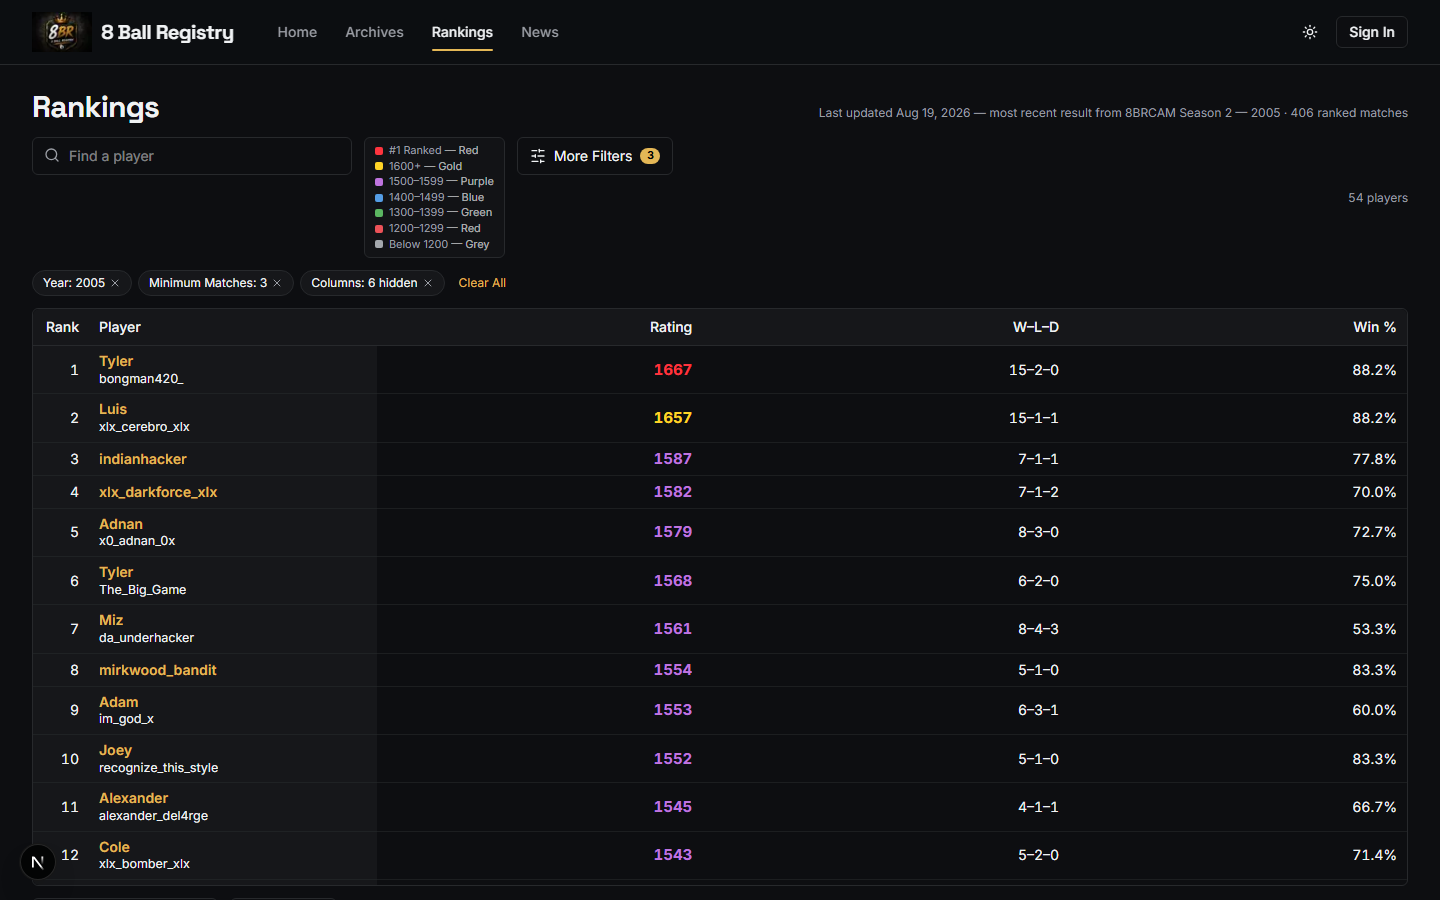
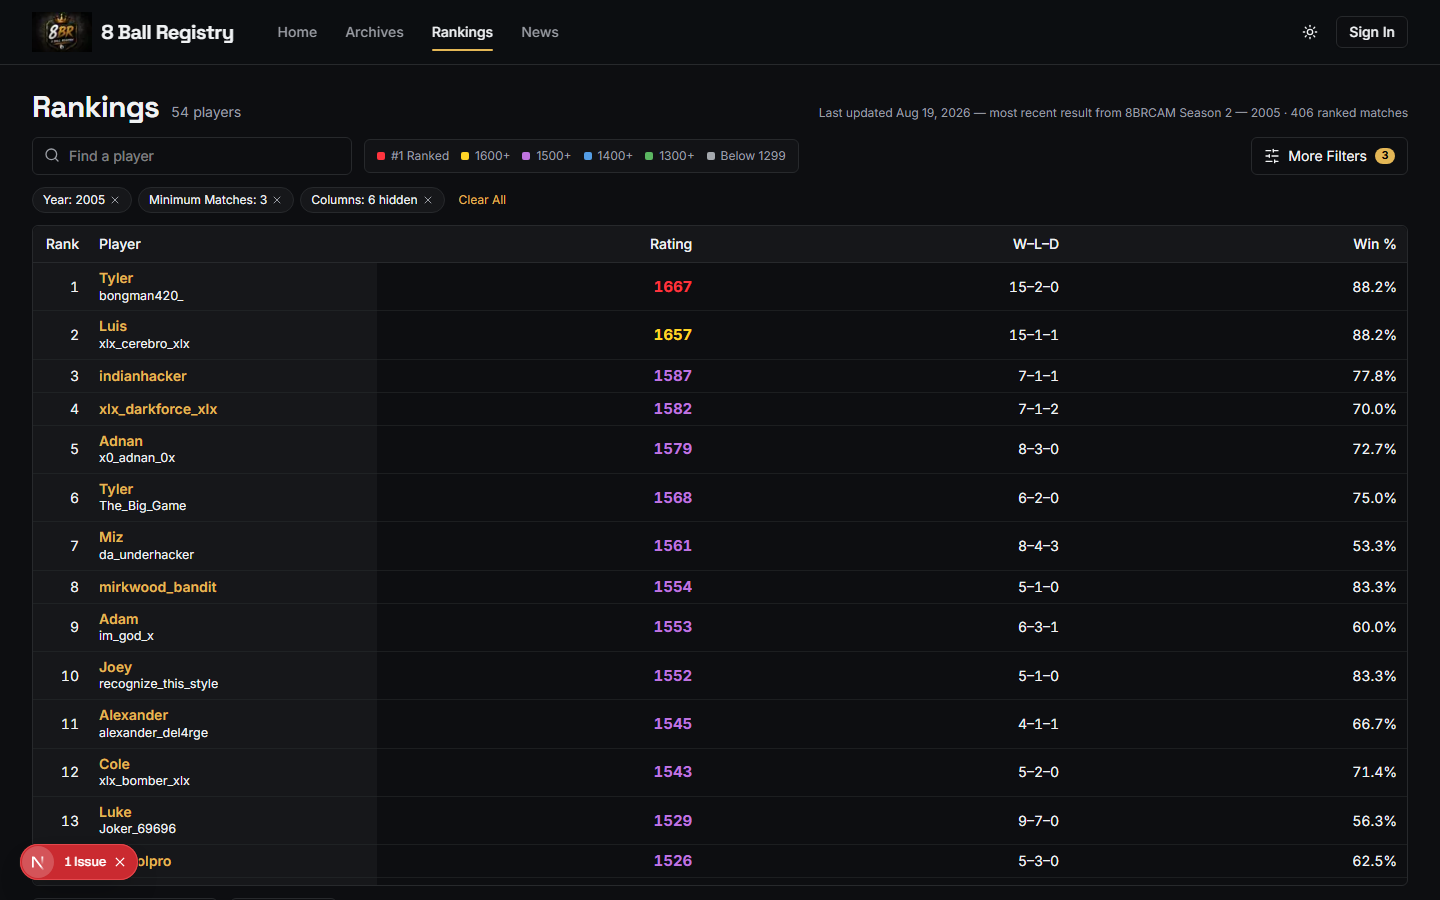
Rankings: grey floor at 1299, inline legend, and rank always follows rating
── Bands
Red is no longer a band. It belongs to first place alone, and a band
wearing the same colour made the single row the colour exists to point at
look like the bottom of the table. Grey now covers everything below 1300,
so the scale is gold, purple, blue, green and then a floor.

── Legend
One horizontal strip beside the search box, matching the agreed layout:
swatch plus threshold, no colour words. Writing "Gold" beside a gold
square tells a sighted reader what they can already see, and six such
words turned the strip into a paragraph. The names are still carried for
assistive technology, so colour is never the only signal.

The player count moves up beside the title, where "Rankings · 60 players"
reads as one statement instead of a number floating at the end of a
control row.

── Rank always follows rating
A player the official ladder does not rank used to be appended after
everyone else, which produced ranks that contradicted the ratings printed
next to them: 1490 sitting at #61, below 1395. Rating decides rank, and a
number saying otherwise is not graceful degradation — it is a wrong
answer delivered with the confidence of a right one.

Official ranks are now used only when the ladder ranks EVERY row.
Otherwise the whole table is ranked by rating. A missing row means the
ladder and the table disagree about identity — in practice a player who
exists twice, once from the archive and once from a newly provisioned
[…]

diff --git a/src/components/rankings/rating-legend.tsx b/src/components/rankings/rating-legend.tsx
@@ -4,40 +4,47 @@ import { RATING_BANDS } from '@/lib/stats/rating-tier'
  * What the Rating colours mean, said out loud.
  *
  * Permanently visible, never behind a hover, a tooltip or an information icon. The colours encode
- * six bands and a first-place override; a reader who has to discover that by pointing at things is
- * a reader who never learns it, and one on a touch screen cannot hover at all.
+ * four bands, a floor and a first-place override; a reader who has to discover that by pointing at
+ * things never learns it, and one on a touch screen cannot point at all.
  *
- * It sits where the Competition filter used to, so removing that control did not simply leave a
- * hole in the toolbar.
+ * Laid out as a single horizontal strip beside the search box, where the Competition filter used to
+ * sit — so removing that control did not leave a hole, and the table still starts near the top of
+ * the page. It wraps to a second line rather than scrolling, because a legend you have to scroll is
+ * a legend you have to interact with.
  *
- * The swatches use the real tier tokens, so the legend cannot drift from the table — if a band's
- * colour changes, this changes with it. They are small squares rather than sample numbers: seven
- * bold neon figures in a corner would compete with the column they are explaining.
- *
- * Colour is never the only carrier. Every row states its threshold in text, so the legend reads
- * correctly in monochrome, to a screen reader, and to anyone who cannot distinguish the two blues.
+ * The swatches read the real tier tokens, so this cannot drift from the table: if a band's colour
+ * changes, the legend changes with it. Colour is never the only carrier — every entry states its
+ * threshold, and names its colour to a screen reader without printing a word the swatch already
+ * says — so it survives monochrome, assistive technology, and anyone who cannot separate the two
+ * blues.
  */
 export function RatingLegend({ className = '' }: { className?: string }) {
   return (
     <div
-      className={`rounded-md border border-border bg-card/60 px-2.5 py-1.5 ${className}`}
+      className={`flex flex-wrap items-center gap-x-3 gap-y-1 rounded-md border border-border bg-card/60 px-3 py-2 ${className}`}
       role="group"
       aria-label="What the rating colours mean"
     >
-      <ul className="grid grid-cols-2 gap-x-3 gap-y-0.5 sm:grid-cols-1">
-        {RATING_BANDS.map((b) => (
-          <li key={b.id} className="flex items-center gap-1.5 whitespace-nowrap text-[0.68rem] leading-tight">
-            <span
-              aria-hidden
-              className="inline-block size-2 shrink-0 rounded-[2px]"
-              style={{ backgroundColor: `var(${b.token})` }}
-            />
-            <span className="text-muted-foreground">
-              {b.label} <span className="text-foreground/70">— {b.colourName}</span>
-            </span>
-          </li>
-        ))}
-      </ul>
+      {RATING_BANDS.map((b) => (
+        <span key={b.id} className="inline-flex items-center gap-1.5 whitespace-nowrap text-xs">
+          <span
+            aria-hidden
+            className="inline-block size-2 shrink-0 rounded-[2px]"
+            style={{ backgroundColor: `var(${b.token})` }}
+          />
+          <span className="text-muted-foreground">
+            {b.label}
+            {/*
+              The colour NAME is carried for a screen reader but never printed.
+              Writing "Gold" beside a gold square tells a sighted reader something they can already
+              see, and six such words turned the strip into a paragraph. The threshold is what
+              identifies the band; the name only has to exist for anyone who cannot see the swatch,
+              which is exactly what sr-only is for.
+            */}
+            <span className="sr-only">{b.id === 'top' ? ' — ' : ' '}{b.colourName}</span>
+          </span>
+        </span>
+      ))}
     </div>
   )
 }

diff --git a/src/components/rankings/rankings-explorer.tsx b/src/components/rankings/rankings-explorer.tsx
@@ -44,9 +44,17 @@ export interface RankingsExplorerProps {
   rows: ExplorerRow[]
   facets: ExplorerFacets
   state: RankingsState
+  /**
+   * The masthead line, rendered here rather than by the page.
+   *
+   * The result count belongs beside the title — "Rankings · 60 players" is one statement — and the
+   * count is a function of the filters, which only this component knows. Rendering the heading on
+   * the server and the count in the client would have put them in different rows.
+   */
+  heading: React.ReactNode
 }
 
-export function RankingsExplorer({ rows, facets, state }: RankingsExplorerProps) {
+export function RankingsExplorer({ rows, facets, state, heading }: RankingsExplorerProps) {
   const router = useRouter()
   const [pending, startTransition] = useTransition()
   const topOffset = useHeaderOffset()
@@ -137,8 +145,19 @@ export function RankingsExplorer({ rows, facets, state }: RankingsExplorerProps)
 
   return (
     <>
-      {/* ── Toolbar: search, what the colours mean, filters, and how many players match. */}
-      <div className="mb-3 flex flex-wrap items-start gap-x-3 gap-y-2">
+      <div className="mb-3 flex flex-wrap items-baseline justify-between gap-x-4 gap-y-1">
+        <div className="flex flex-wrap items-baseline gap-x-3">
+          <h1 className="font-display text-2xl font-bold tracking-tight sm:text-3xl">Rankings</h1>
+          <p className="text-sm text-muted-foreground" aria-live="polite">
+            <span className="tabular-nums">{visible.length.toLocaleString()}</span>{' '}
+            {visible.length === 1 ? 'player' : 'players'}
+          </p>
+        </div>
+        {heading}
+      </div>
+
+      {/* ── Toolbar: search, what the colours mean, and the filters. */}
+      <div className="mb-3 flex flex-wrap items-center gap-x-3 gap-y-2">
         <div className="relative min-w-[12rem] flex-1 sm:max-w-xs">
           <Search className="pointer-events-none absolute left-3 top-2.5 size-4 text-muted-foreground" aria-hidden />
           <input
@@ -160,15 +179,17 @@ export function RankingsExplorer({ rows, facets, state }: RankingsExplorerProps)
           )}
         </div>
 
-        <RatingLegend className="order-last w-full sm:order-none sm:w-auto" />
+        <RatingLegend className="min-w-0" />
 
         <button
           ref={moreFiltersRef}
+          // Pushed to the trailing edge so the toolbar reads left-to-right as search, meaning,
+          // then action.
           type="button"
           onClick={() => setDrawerOpen(true)}
           aria-haspopup="dialog"
           aria-expanded={drawerOpen}
-          className="inline-flex items-center gap-2 rounded-md border border-border px-3 py-2 text-sm transition-colors hover:border-[var(--gold)]/50 focus-visible:outline-none focus-visible:ring-2 focus-visible:ring-[var(--gold)]/60"
+          className="ml-auto inline-flex items-center gap-2 rounded-md border border-border px-3 py-2 text-sm transition-colors hover:border-[var(--gold)]/50 focus-visible:outline-none focus-visible:ring-2 focus-visible:ring-[var(--gold)]/60"
         >
           <SlidersHorizontal className="size-4" aria-hidden />
           More Filters
@@ -182,10 +203,6 @@ export function RankingsExplorer({ rows, facets, state }: RankingsExplorerProps)
           )}
         </button>
 
-        <p className="ml-auto self-center text-xs text-muted-foreground" aria-live="polite">
-          <span className="tabular-nums">{visible.length.toLocaleString()}</span>{' '}
-          {visible.length === 1 ? 'player' : 'players'}
-        </p>
       </div>
 
       {/* ── Applied filters, as chips that remove themselves. */}

diff --git a/src/lib/stats/rating-tier.ts b/src/lib/stats/rating-tier.ts
@@ -18,21 +18,22 @@
  * rating display on the site uses it — see the note on RatingCell.
  */
 
-export type RatingTier = 'gold' | 'red' | 'purple' | 'blue' | 'green' | 'grey'
+export type RatingTier = 'gold' | 'purple' | 'blue' | 'green' | 'grey'
 
 /**
  * Ordered high to low. The first band whose floor the rating reaches is the one it belongs to.
  *
- * The colour order is the owner's, not a spectrum: gold, purple, blue, green, red, grey descending.
- * Red sits LOW rather than high — an earlier revision had 1500–1599 red, which is gone. Anyone
- * reading a red rating as "elite" is reading the previous scheme.
+ * Four colours and a floor: gold, purple, blue, green descending, then grey for everything below
+ * 1300. Red is deliberately ABSENT from the bands — it belongs to first place alone, and a band
+ * sharing that colour would make the one row the colour exists to point at indistinguishable from
+ * the bottom of the table. An earlier revision had red at 1500–1599 and then at 1200–1299; both are
+ * gone.
  */
 const BANDS: { tier: RatingTier; floor: number; label: string }[] = [
   { tier: 'gold', floor: 1600, label: 'Gold' },
   { tier: 'purple', floor: 1500, label: 'Purple' },
   { tier: 'blue', floor: 1400, label: 'Blue' },
   { tier: 'green', floor: 1300, label: 'Green' },
-  { tier: 'red', floor: 1200, label: 'Red' },
   { tier: 'grey', floor: Number.NEGATIVE_INFINITY, label: 'Grey' },
 ]
 
@@ -126,9 +127,8 @@ export const RATING_BANDS: {
 }[] = [
   { id: 'top', label: '#1 Ranked', colourName: 'Red', token: '--rating-top' },
   { id: 'gold', label: '1600+', colourName: 'Gold', token: '--tier-gold' },
-  { id: 'purple', label: '1500–1599', colourName: 'Purple', token: '--tier-purple' },
-  { id: 'blue', label: '1400–1499', colourName: 'Blue', token: '--tier-blue' },
-  { id: 'green', label: '1300–1399', colourName: 'Green', token: '--tier-green' },
-  { id: 'red', label: '1200–1299', colourName: 'Red', token: '--tier-red' },
-  { id: 'grey', label: 'Below 1200', colourName: 'Grey', token: '--tier-grey' },
+  { id: 'purple', label: '1500+', colourName: 'Purple', token: '--tier-purple' },
+  { id: 'blue', label: '1400+', colourName: 'Blue', token: '--tier-blue' },
+  { id: 'green', label: '1300+', colourName: 'Green', token: '--tier-green' },
+  { id: 'grey', label: 'Below 1299', colourName: 'Grey', token: '--tier-grey' },
 ]

diff --git a/src/lib/stats/ladder-explorer.ts b/src/lib/stats/ladder-explorer.ts
@@ -630,14 +630,26 @@ export async function computeExplorer(
    * Either way the rank is assigned once, here. Sorting the table never rewrites it.
    */
   const rankOf = await officialRanks
-  if (rankOf) {
-    // A player the ladder does not rank keeps a derived position AFTER everyone it does, rather
-    // than being given rank 0 or dropped from the table.
-    let overflow = rankOf.size
+
+  /*
+   * Official ranks are used only if the ladder ranks EVERY row.
+   *
+   * The previous fallback appended an unranked player after everyone else, which produced ranks
+   * that flatly contradicted the ratings beside them — a player rated 1490 sitting at #61 below one
+   * rated 1395. Rating decides rank; a number that says otherwise is not a graceful degradation, it
+   * is a wrong answer presented with the same confidence as a right one.
+   *
+   * A row missing from the ladder means the two disagree about identity — normally a player who
+   * exists twice, once from the archive and once from a newly provisioned account. That is a data
+   * fault worth noticing, so the table falls back to ranking the whole set by rating rather than
+   * hiding it behind one plausible-looking row. The official ranks return by themselves once the
+   * duplicate is resolved.
+   */
+  if (rankOf && mapped.every((row) => rankOf.has(row.playerId))) {
     mapped.sort((a, b) =>
-      (rankOf.get(a.playerId) ?? Number.MAX_SAFE_INTEGER) - (rankOf.get(b.playerId) ?? Number.MAX_SAFE_INTEGER)
+      (rankOf.get(a.playerId) ?? 0) - (rankOf.get(b.playerId) ?? 0)
       || a.preferredName.toLowerCase().localeCompare(b.preferredName.toLowerCase()))
-    mapped.forEach((row) => { row.rank = rankOf.get(row.playerId) ?? ++overflow })
+    mapped.forEach((row) => { row.rank = rankOf.get(row.playerId)! })
     return mapped
   }
 

diff --git a/src/app/(frontend)/globals.css b/src/app/(frontend)/globals.css
@@ -95,7 +95,11 @@
 
   /* ── Rating tiers (the primary Rating value in the Rankings table only).
      Bands, high to low: 1600+ gold · 1500–1599 purple · 1400–1499 blue ·
-     1300–1399 green · 1200–1299 red · below 1200 grey.
+     1300–1399 green · 1299 and below grey.
+
+     There is no red band. Red belongs to first place alone — a band wearing it
+     would make the one row the colour exists to point at look like the bottom of
+     the table.
 
      Flat colours. An earlier revision paired each with a brighter halo and an
      animated glow; the glow smeared the digits and was removed. A rating is a
@@ -110,7 +114,6 @@
   --tier-purple: oklch(0.68 0.17 315);
   --tier-blue: oklch(0.68 0.13 250);
   --tier-green: oklch(0.7 0.15 145);
-  --tier-red: oklch(0.65 0.19 22);
   /* Grey is a readable neutral, not a disabled state — a low rating is still a rating. */
   --tier-grey: oklch(0.73 0.008 250);
 
@@ -206,7 +209,6 @@
   --tier-purple: oklch(0.5 0.2 310);
   --tier-blue: oklch(0.5 0.16 253);
   --tier-green: oklch(0.5 0.15 145);
-  --tier-red: oklch(0.53 0.2 22);
   --tier-grey: oklch(0.52 0.008 250);
 
   --rating-top: oklch(0.55 0.22 25);
@@ -861,7 +863,6 @@
 .rating-primary--purple { --tier-color: var(--tier-purple); }
 .rating-primary--blue   { --tier-color: var(--tier-blue); }
 .rating-primary--green  { --tier-color: var(--tier-green); }
-.rating-primary--red    { --tier-color: var(--tier-red); }
 .rating-primary--grey   { --tier-color: var(--tier-grey); }
 
 /* First place, last in the cascade so it wins over the band it sits on. */

diff --git a/src/app/(frontend)/rankings/page.tsx b/src/app/(frontend)/rankings/page.tsx
@@ -48,11 +48,13 @@ export default async function RankingsPage({
 
   return (
     <Wide name="rankings" className="py-6">
-      <div className="mb-3 flex flex-wrap items-baseline justify-between gap-x-4 gap-y-1">
-        <h1 className="font-display text-2xl font-bold tracking-tight sm:text-3xl">Rankings</h1>
-        {/* Derived from the newest canonical result, never from the clock — a "last updated" that
-            reports the page load says only that somebody opened the page. */}
-        {freshness.lastResultAt && (
+      <RankingsExplorer
+        rows={rows}
+        facets={facets}
+        state={state}
+        // Derived from the newest canonical result, never from the clock — a "last updated" that
+        // reports the page load says only that somebody opened the page.
+        heading={freshness.lastResultAt ? (
           <p className="text-xs text-muted-foreground">
             Last updated{' '}
             <time dateTime={freshness.lastResultAt}>
@@ -62,10 +64,8 @@ export default async function RankingsPage({
             {' · '}
             <span className="tabular-nums">{freshness.rankedMatches.toLocaleString()}</span> ranked matches
           </p>
-        )}
-      </div>
-
-      <RankingsExplorer rows={rows} facets={facets} state={state} />
+        ) : null}
+      />
     </Wide>
   )
 }
